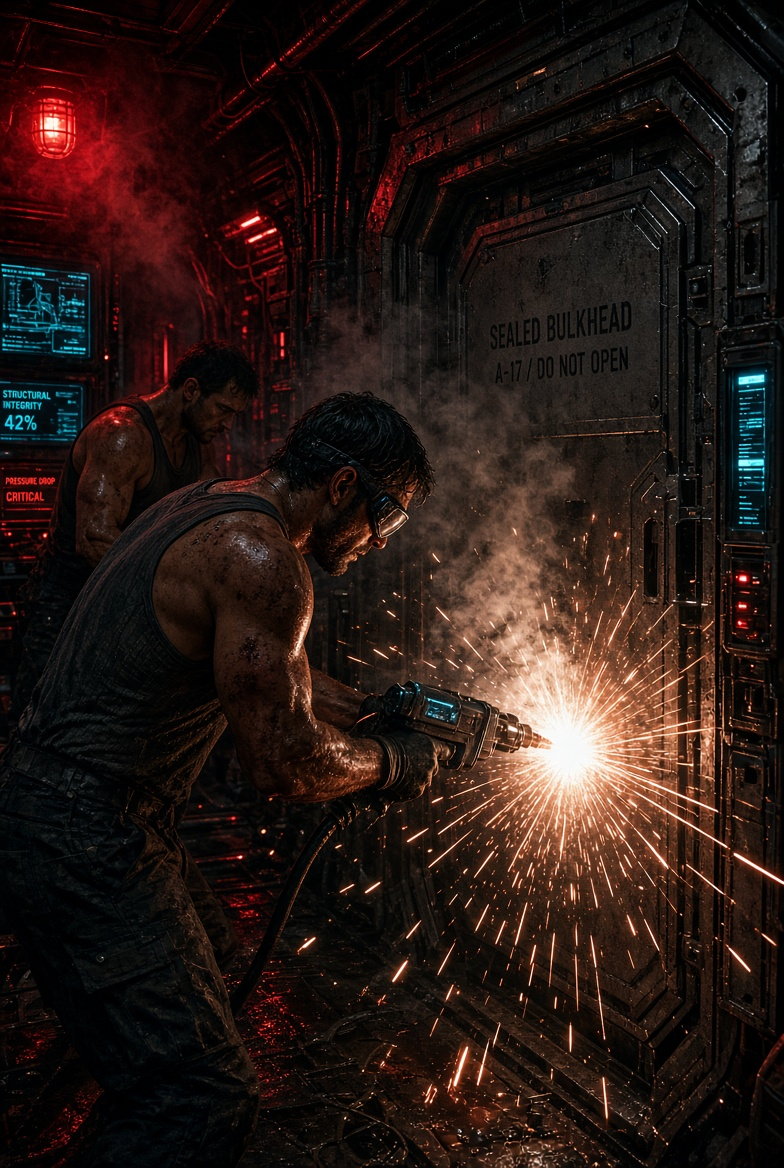
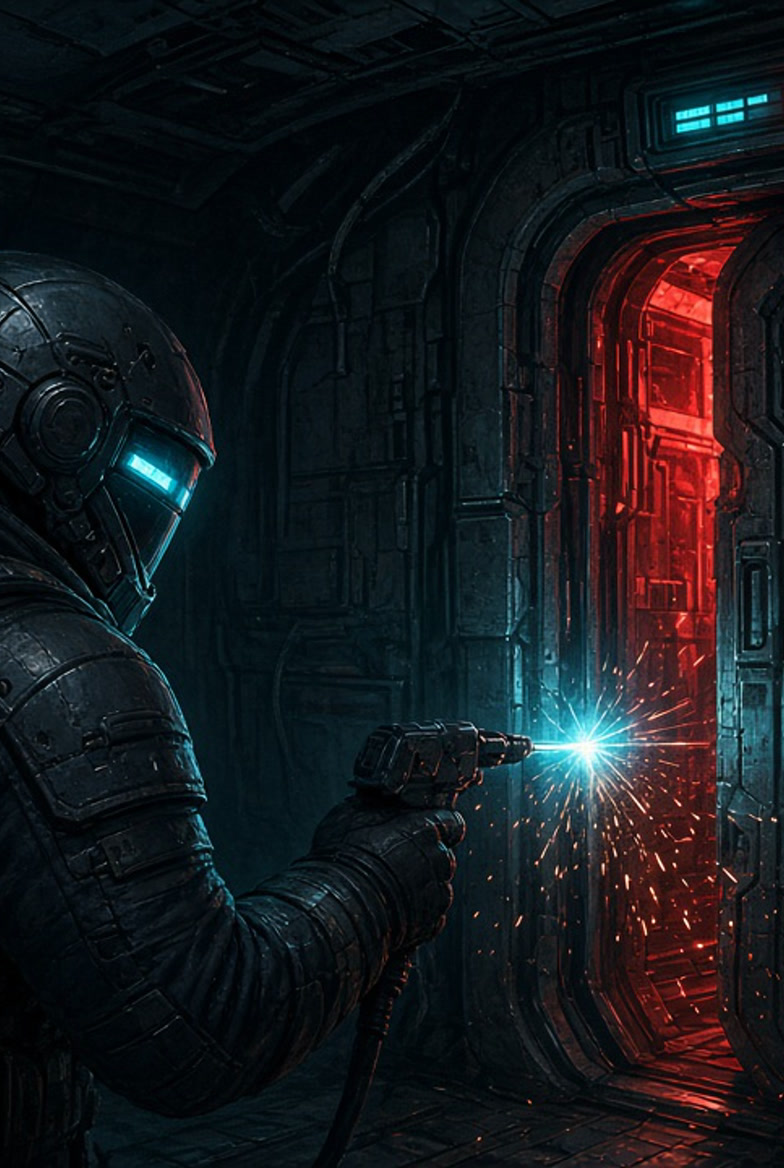
SUN-BATCH01-NEXT3-WIRE-01 — tether_truth + tether_lie + cut_out
Owner APPROVED + Canon PASS. Add three unique JPGs and remap sceneImages keys only. IMAGES_TREE 936ad52a7dabf1420156c57d485cec97b3d09454. No 0.36 / no Netlify in this PR.

diff --git a/src/state.js b/src/state.js
@@ -186,8 +186,8 @@ const sceneImages = {
   act2_tether_hand_sela:  "images/self_risk.jpg",
   act2_tether_dock:     "images/bulkhead.jpg",
   act2_tether_manifest: "images/medbay_dim.jpg",
-  act2_tether_truth:    "images/observation_crew.jpg",
-  act2_tether_lie:      "images/observation_bridge.jpg",
+  act2_tether_truth:    "images/act2_tether_truth.jpg",
+  act2_tether_lie:      "images/act2_tether_lie.jpg",
   act2_spine_next:      "images/corridor.jpg",
   act3_reckoning_pattern: "images/observation_bridge_alt.jpg",
   act3_reckoning_heading: "images/observation_bridge.jpg",

diff --git a/docs/SUN_BATCH01_NEXT3_WIRE_01.md b/docs/SUN_BATCH01_NEXT3_WIRE_01.md
@@ -1,0 +1,16 @@
+# SUN-BATCH01-NEXT3-WIRE-01
+
+Owner APPROVED + Canon PASS. Wired three unique plates:
+
+| event | path | hex16 |
+|---|---|---|
+| act2_tether_truth | images/act2_tether_truth.jpg | fd5d5c80844f10e3 |
+| act2_tether_lie | images/act2_tether_lie.jpg | c418367f725e344b |
+| cut_out | images/cut_out.jpg | 15d94c74eb6a81b5 |
+
+sceneImages remapped for those three keys only. No shared-plate overwrites.
+Note: act3_reckoning_cut still needs a separate spine plate later (Canon).
+tip base: `9641366a4dbc34a0eef0dbcfba0cf14926d7375f`
+IMAGES_TREE: `936ad52a7dabf1420156c57d485cec97b3d09454`
+
+No 0.36 mint. NOT_CERTIFIED remint separate.
